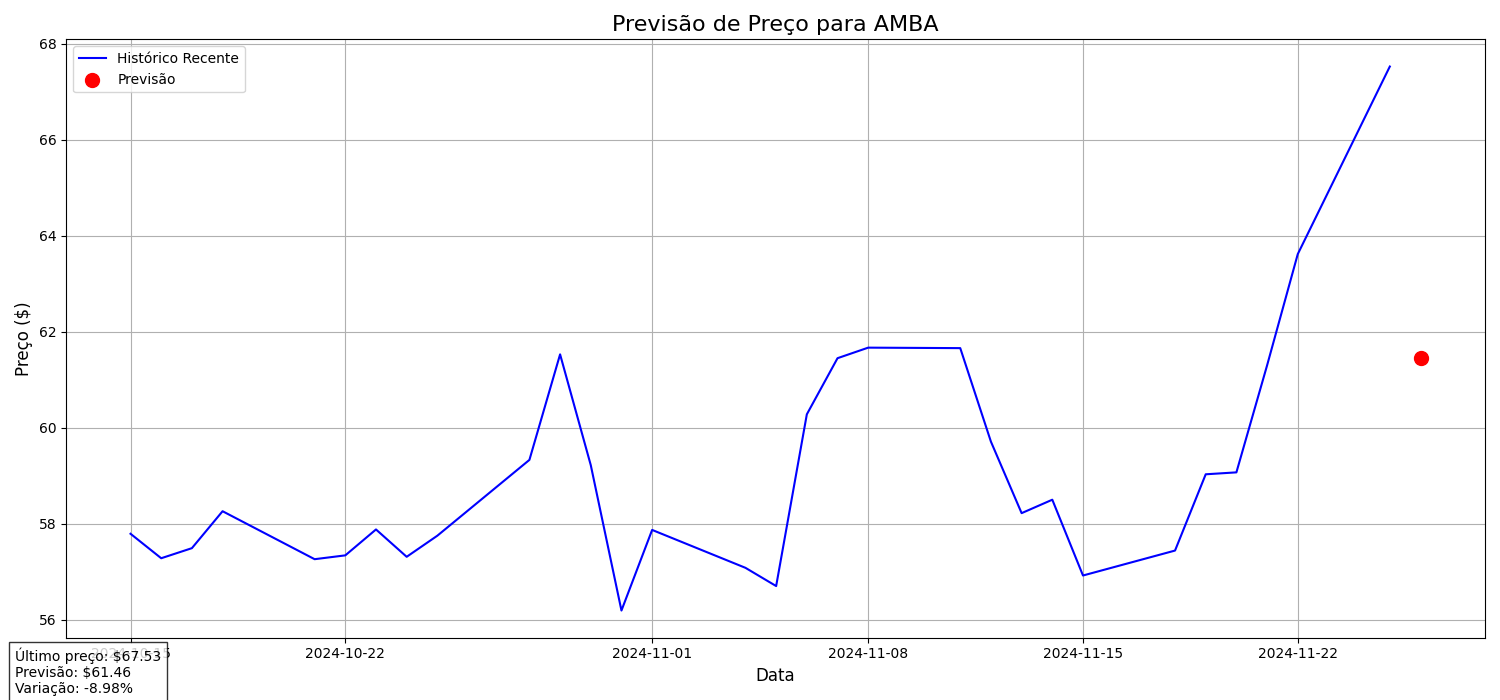
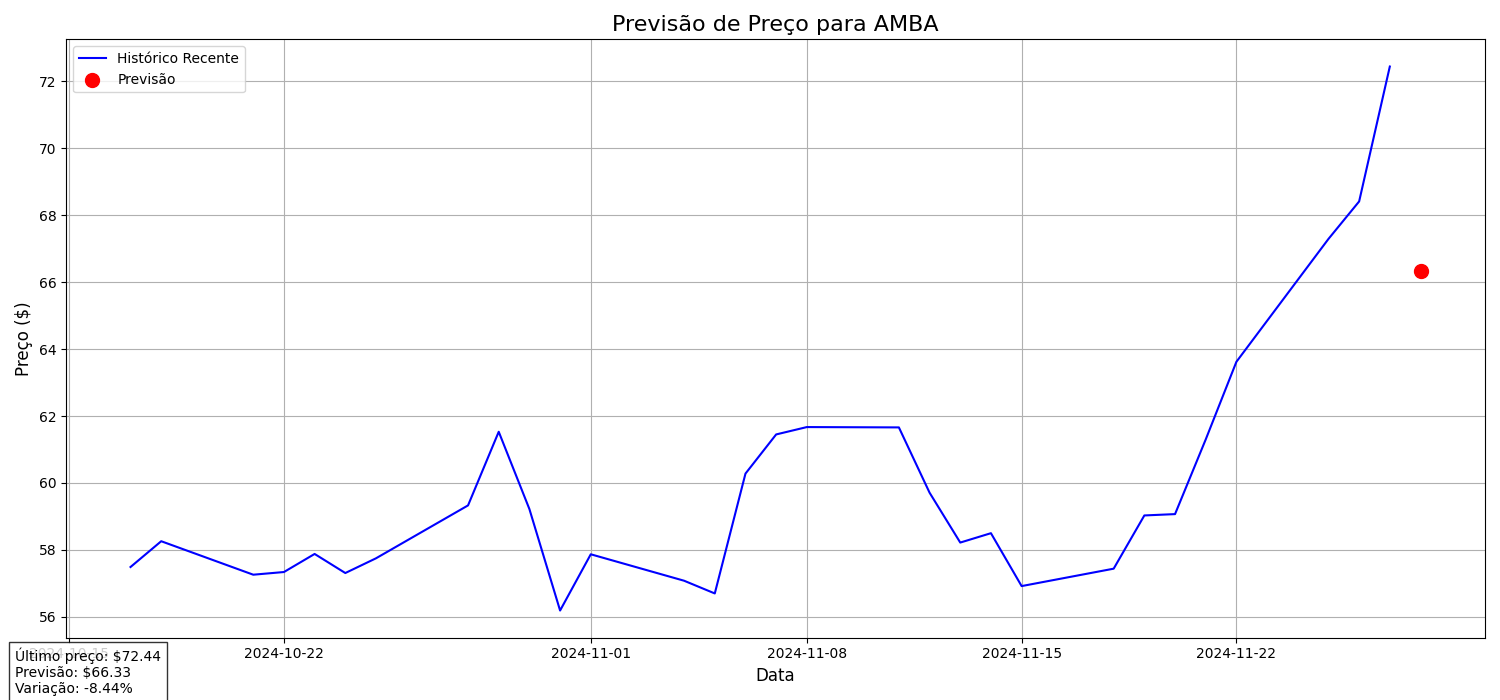
criacao comparacao sequencias

diff --git a/comparacao_sequencias.py b/comparacao_sequencias.py
@@ -1,0 +1,173 @@
+import os
+import numpy as np
+import mlflow
+import mlflow.keras
+import yfinance as yf
+from sklearn.preprocessing import MinMaxScaler
+from datetime import datetime, timedelta
+import matplotlib.pyplot as plt
+import pandas as pd
+import seaborn as sns
+
+def get_latest_model():
+    """Encontrar o modelo mais recente no MLflow"""
+    mlflow.set_tracking_uri('file:' + os.path.join(os.getcwd(), 'mlruns'))
+    client = mlflow.tracking.MlflowClient()
+    
+    experiments = client.search_experiments()
+    latest_run = None
+    latest_timestamp = 0
+    
+    for experiment in experiments:
+        runs = client.search_runs(
+            experiment_ids=[experiment.experiment_id],
+            filter_string="",
+            order_by=["start_time DESC"],
+            max_results=1
+        )
+        
+        if runs and runs[0].info.start_time > latest_timestamp:
+            latest_timestamp = runs[0].info.start_time
+            latest_run = runs[0]
+    
+    if latest_run is None:
+        raise Exception("Nenhum modelo encontrado")
+        
+    return latest_run.info.run_id
+
+def test_multiple_sequences(ticker='AMBA', sequence_length=60, max_sequences=20):
+    """Testar diferentes números de sequências e avaliar a precisão"""
+    try:
+        print(f"\nIniciando teste de sequências para {ticker}")
+        print(f"Testando de 1 até {max_sequences} sequências")
+        
+        # Baixar dados históricos extras para teste
+        end_date = datetime.now()
+        start_date = end_date - timedelta(days=sequence_length + 200)
+        
+        print(f"\nBaixando dados históricos de {start_date.strftime('%Y-%m-%d')} até {end_date.strftime('%Y-%m-%d')}")
+        ticker_obj = yf.Ticker(ticker)
+        dados = ticker_obj.history(start=start_date, end=end_date)
+        
+        print(f"Total de dias baixados: {len(dados)}")
+        
+        # Carregar modelo
+        run_id = get_latest_model()
+        print(f"\nCarregando modelo do run_id: {run_id}")
+        model = mlflow.keras.load_model(f"runs:/{run_id}/modelo_lstm")
+        
+        resultados = []
+        todas_previsoes = []
+        
+        print("\nRealizando previsões com diferentes números de sequências...")
+        # Testar diferentes números de sequências
+        for num_sequences in range(1, max_sequences + 1):
+            print(f"Testando com {num_sequences} sequência(s)...")
+            predictions = []
+            
+            # Criar múltiplas sequências
+            for i in range(num_sequences):
+                start_idx = -(sequence_length + i*5)
+                end_idx = -i*5 if i > 0 else None
+                
+                close_prices = dados['Close'].values[start_idx:end_idx].reshape(-1, 1)
+                scaler = MinMaxScaler(feature_range=(0, 1))
+                scaled_data = scaler.fit_transform(close_prices)
+                X = scaled_data.reshape(1, sequence_length, 1)
+                
+                # Fazer previsão
+                pred_scaled = model.predict(X, verbose=0)
+                pred = scaler.inverse_transform(pred_scaled)[0][0]
+                predictions.append(pred)
+            
+            # Calcular estatísticas
+            mean_pred = np.mean(predictions)
+            std_pred = np.std(predictions)
+            
+            resultados.append({
+                'num_sequences': num_sequences,
+                'mean_prediction': mean_pred,
+                'std_prediction': std_pred,
+                'min_prediction': min(predictions),
+                'max_prediction': max(predictions),
+                'range': max(predictions) - min(predictions),
+                'coefficient_variation': (std_pred/mean_pred)*100 if mean_pred != 0 else 0
+            })
+            
+            todas_previsoes.append(predictions)
+        
+        # Criar visualizações
+        print("\nGerando visualizações...")
+        
+        # Figura 1: Análise Estatística
+        plt.figure(figsize=(15, 10))
+        
+        # Subplot 1: Previsão Média e Desvio
+        plt.subplot(2, 1, 1)
+        means = [r['mean_prediction'] for r in resultados]
+        stds = [r['std_prediction'] for r in resultados]
+        nums = [r['num_sequences'] for r in resultados]
+        
+        plt.errorbar(nums, means, yerr=stds, fmt='o-', capsize=5, color='blue')
+        plt.fill_between(nums, 
+                        [m-s for m,s in zip(means,stds)],
+                        [m+s for m,s in zip(means,stds)],
+                        alpha=0.2, color='blue')
+        plt.title('Previsão Média e Desvio Padrão por Número de Sequências', fontsize=12)
+        plt.xlabel('Número de Sequências')
+        plt.ylabel('Preço Previsto ($)')
+        plt.grid(True)
+        
+        # Subplot 2: Coeficiente de Variação
+        plt.subplot(2, 1, 2)
+        cv = [r['coefficient_variation'] for r in resultados]
+        plt.plot(nums, cv, 'r.-')
+        plt.title('Coeficiente de Variação por Número de Sequências', fontsize=12)
+        plt.xlabel('Número de Sequências')
+        plt.ylabel('Coeficiente de Variação (%)')
+        plt.grid(True)
+        
+        plt.tight_layout()
+        plt.savefig('analise_estatistica_sequencias.png')
+        
+        # Figura 2: Distribuição das Previsões
+        plt.figure(figsize=(15, 8))
+        plt.boxplot(todas_previsoes, labels=nums)
+        plt.title('Distribuição das Previsões por Número de Sequências', fontsize=12)
+        plt.xlabel('Número de Sequências')
+        plt.ylabel('Preço Previsto ($)')
+        plt.grid(True)
+        plt.savefig('distribuicao_previsoes.png')
+        
+        # Encontrar número ótimo de sequências
+        cv_changes = np.diff([r['coefficient_variation'] for r in resultados])
+        optimal_sequences = np.where(np.abs(cv_changes) < 0.5)[0][0] + 1
+        
+        # Salvar resultados em CSV
+        df_resultados = pd.DataFrame(resultados)
+        df_resultados.to_csv('resultados_sequencias.csv', index=False)
+        
+        print("\nAnálise de Sequências:")
+        print(f"Número ótimo sugerido de sequências: {optimal_sequences}")
+        print("\nResultados detalhados:")
+        print(f"{'N.Seq':>5} {'Média($)':>10} {'Std($)':>8} {'CV(%)':>8} {'Range($)':>8}")
+        print("-" * 50)
+        for r in resultados:
+            print(f"{r['num_sequences']:5d} {r['mean_prediction']:10.2f} "
+                  f"{r['std_prediction']:8.2f} {r['coefficient_variation']:8.2f} "
+                  f"{r['range']:8.2f}")
+        
+        print("\nArquivos gerados:")
+        print("- analise_estatistica_sequencias.png")
+        print("- distribuicao_previsoes.png")
+        print("- resultados_sequencias.csv")
+        
+        return optimal_sequences, resultados
+        
+    except Exception as e:
+        print(f"Erro ao testar sequências: {e}")
+        return None, None
+
+if __name__ == "__main__":
+    max_sequences = int(input("Digite o número máximo de sequências para testar (recomendado: 20): "))
+    optimal_sequences, results = test_multiple_sequences(max_sequences=max_sequences)
